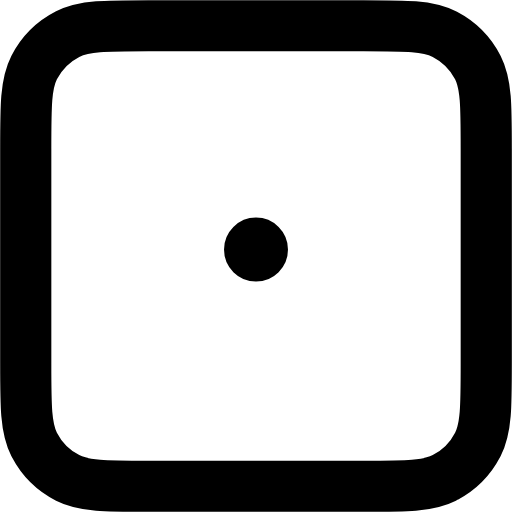
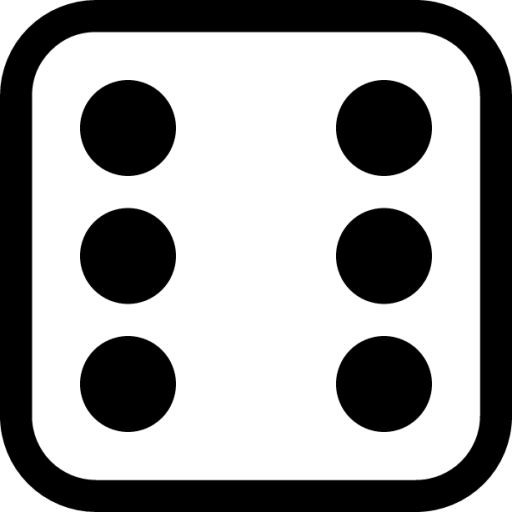
Card Basics

diff --git a/card.js b/card.js
@@ -1,9 +1,16 @@
 class Card{
     // rarity like in style.css (bronze, bronze-rare...)
     constructor(line, isCurrent){
+        
         const data = line.trim().split(';');
+        this.isCurrent = isCurrent;
+        this.isPlayer = data[10];
+        if(this.isPlayer) this.createPlayerCard(data);
+        else this.createGameCard(data);
+    }
+    createPlayerCard(data){
         this.card = document.createElement('div');
-        if(!isCurrent) this.card.classList.add('currentCard');
+        if(!this.isCurrent) this.card.classList.add('currentCard');
         this.card.classList.add('card', data[2]);
 
         this.x = parseInt(data[0]);
@@ -24,15 +31,28 @@ class Card{
         this.addImage(`imgs/players/${data[5]}.png`);
         this.addTeams(data[3],data[4],data[6]);
         this.addStats(data[5],stats);
-        this.isCurrent = isCurrent;
+        
         this.updatePos()
     }
-    static getCards(cardData){
-        let cards = []
-        cardData.forEach(row => {
-            cards.push(new Card(row,true));
-        });
-        return cards;
+    createGameCard(data){
+        this.card = document.createElement('div');
+        this.card.classList.add('card');
+        this.card.classList.add('gameCard');
+        this.x = parseInt(data[0]);
+        this.y = parseInt(data[1]);
+        this.updatePos();
+
+        let cardImage = document.createElement('img');
+        cardImage.src = 'imgs/Florentino Perez.jpg';
+        cardImage.classList.add('gameCardImage')
+        this.card.appendChild(cardImage);
+
+        let cardText = document.createElement('div');
+        cardText.classList.add('gameCardText');
+        cardText.innerText = data[2];
+        this.card.appendChild(cardText);
+
+        document.querySelector('.tableContainer').appendChild(this.card);
     }
     getOverall(stats){
         return parseInt(Object.values(stats).reduce((sum, value) => sum + value, 0)/Object.values(stats).length);
@@ -137,6 +157,14 @@ class Card{
         this.statContainer.appendChild(nameDiv);
         this.statContainer.appendChild(StatDiv);
     }
+    static getCards(cardData){
+        let cards = []
+        cardData.forEach(row => {
+            cards.push(new Card(row,true));
+        });
+        return cards;
+    }
+    
     
 }
 

diff --git a/cardData.js b/cardData.js
@@ -1,19 +1,20 @@
 let cardData = [
-   '0;0;bronze;kamerun;bengaluru_bananacsapata;Banana;cb;12;12;6',
-   '1;0;bronze;nemetorszag;Kaiserslautern_dickcsapata;Dick;rb;12;12;6',
-   '2;0;silver-rare;ausztria;charlotte_fuckscsapata;Fuchks;lb;12;12;6',
-   '3;0;gold;olaszorszag;brescia_dickmanncsapata;Dickmann;rw;12;12;6',
-   '4;0;silver;ausztria;wolfsberger_nutzcsapata;Nutz;lw;12;12;6',
-   '5;0;silver-rare;argentina;aldosivi_assmanncsapata;Assmann;gk;12;12;6',
-   '6;0;bronze;franciaorszag;psg;Kolo Muani;st;12;12;6',
-   '7;0;gold;argentina;astonvilla;Martinez;gk;12;12;6',
-   '8;0;gold-rare;franciaorszag;psg;Mbappe;lw;12;12;6',
-   '9;0;silver-rare;argentina;miami;Messi;rw;12;12;6',
-   '0;1;bronze-rare;eszakirorszag;agf;Peacock;gk;12;12;6',
-   '1;1;gold;belgium;roma;Lakaka;st;12;12;6',
-   '2;1;bronze;ukrajna;chelsea;Mudryk;lw;12;12;6',
-   '3;1;gold-rare;anglia;manutd;Maguire;cb;12;12;6',
-   '4;1;silver-rare;magyarorszag;liverpool;Szoboszlai;cm;12;12;6',
+   '0;0;bronze;kamerun;bengaluru_bananacsapata;Banana;cb;12;12;6;1',
+   '1;0;bronze;nemetorszag;Kaiserslautern_dickcsapata;Dick;rb;12;12;6;1',
+   '2;0;silver-rare;ausztria;charlotte_fuckscsapata;Fuchks;lb;12;12;6;1',
+   '3;0;gold;olaszorszag;brescia_dickmanncsapata;Dickmann;rw;12;12;6;1',
+   '4;0;silver;ausztria;wolfsberger_nutzcsapata;Nutz;lw;12;12;6;1',
+   '5;0;silver-rare;argentina;aldosivi_assmanncsapata;Assmann;gk;12;12;6;1',
+   '6;0;bronze;franciaorszag;psg;Kolo Muani;st;12;12;6;1',
+   '7;0;gold;argentina;astonvilla;Martinez;gk;12;12;6;1',
+   '8;0;gold-rare;franciaorszag;psg;Mbappe;lw;12;12;6;1',
+   '9;0;silver-rare;argentina;miami;Messi;rw;12;12;6;1',
+   '0;1;bronze-rare;eszakirorszag;agf;Peacock;gk;12;12;6;1',
+   '1;1;gold;belgium;roma;Lakaka;st;12;12;6;1',
+   '2;1;bronze;ukrajna;chelsea;Mudryk;lw;12;12;6;1',
+   '3;1;gold-rare;anglia;manutd;Maguire;cb;12;12;6;1',
+   '4;1;silver-rare;magyarorszag;liverpool;Szoboszlai;cm;12;12;6;1',
+   '5;1;Bazd meg magad'
 
 ]
 

diff --git a/style.css b/style.css
@@ -26,6 +26,8 @@ body{
     left: -160px;
     top: 10px;
     overflow: visible;
+    color: #900;
+    font-weight: bold;
     z-index: 1;
 }
 .teamContainer, .cardImageContainer{
@@ -114,9 +116,6 @@ body{
 .bronze-rare{
     background-image: linear-gradient(to bottom right,rgb(254,215,184),rgb(196, 149, 110));
 }
-
-
-
 .throwContainer{
     position: absolute;
     z-index: 2;
@@ -135,4 +134,33 @@ body{
     left: 50%;
     top: 50%;
     transform: translate(-50%, -50%);
+}
+#dobasBtn{
+    width: 120px;
+    height: 60px;
+    border-radius: 7%;
+    border: #333 solid 3px;
+    position: absolute;
+    top: 200px;
+    left: 105px;
+}
+
+.gameCard{
+    background: linear-gradient(to bottom right, #D32,#D32, #C44);
+    opacity: 0.9;
+}
+.gameCardImage{
+    width: 100%;
+    height: 40%;
+}
+.gameCardText{
+    font-size: 8pt;
+    font-weight: bold;
+    width: 90%;
+    display: block;
+    height: 60%;
+    margin-left: auto;
+    margin-right: auto;
+    border-bottom-left-radius: inherit;
+    border-bottom-right-radius: inherit;
 }

diff --git a/movementHandler.js b/movementHandler.js
@@ -13,11 +13,16 @@ class MovementHandler{
             this.transitionStart();
         }
         else{
-
-            this.currentCard.disableCurrent();
-            this.currentCard = this.getNextCard();
+            if(this.isPlayer){
+                this.currentCard.disableCurrent();
+                this.currentCard = this.getNextCard();
+                
+                this.currentCard.makeCurrent();
+            }
+            else{
+                
+            }
             
-            this.currentCard.makeCurrent();
         }
     } 
     getNextCard(){

diff --git a/script.js b/script.js
@@ -7,7 +7,7 @@ const cards = Card.getCards(CardData);
 
 const dobasBtn = document.querySelector('#dobasBtn');
 
-let startCard = new Card('-1;0;bronze;argentina;Aldosovi;Assmann;gk;23;23;63', false);
+let startCard = new Card('-1;0;bronze;argentina;Aldosovi;Assmann;gk;23;23;63;1', false);
 const movementHandler = new MovementHandler(startCard, cards)
 
 dobasBtn.addEventListener('click', () => {DiceThrow().then(result =>{
